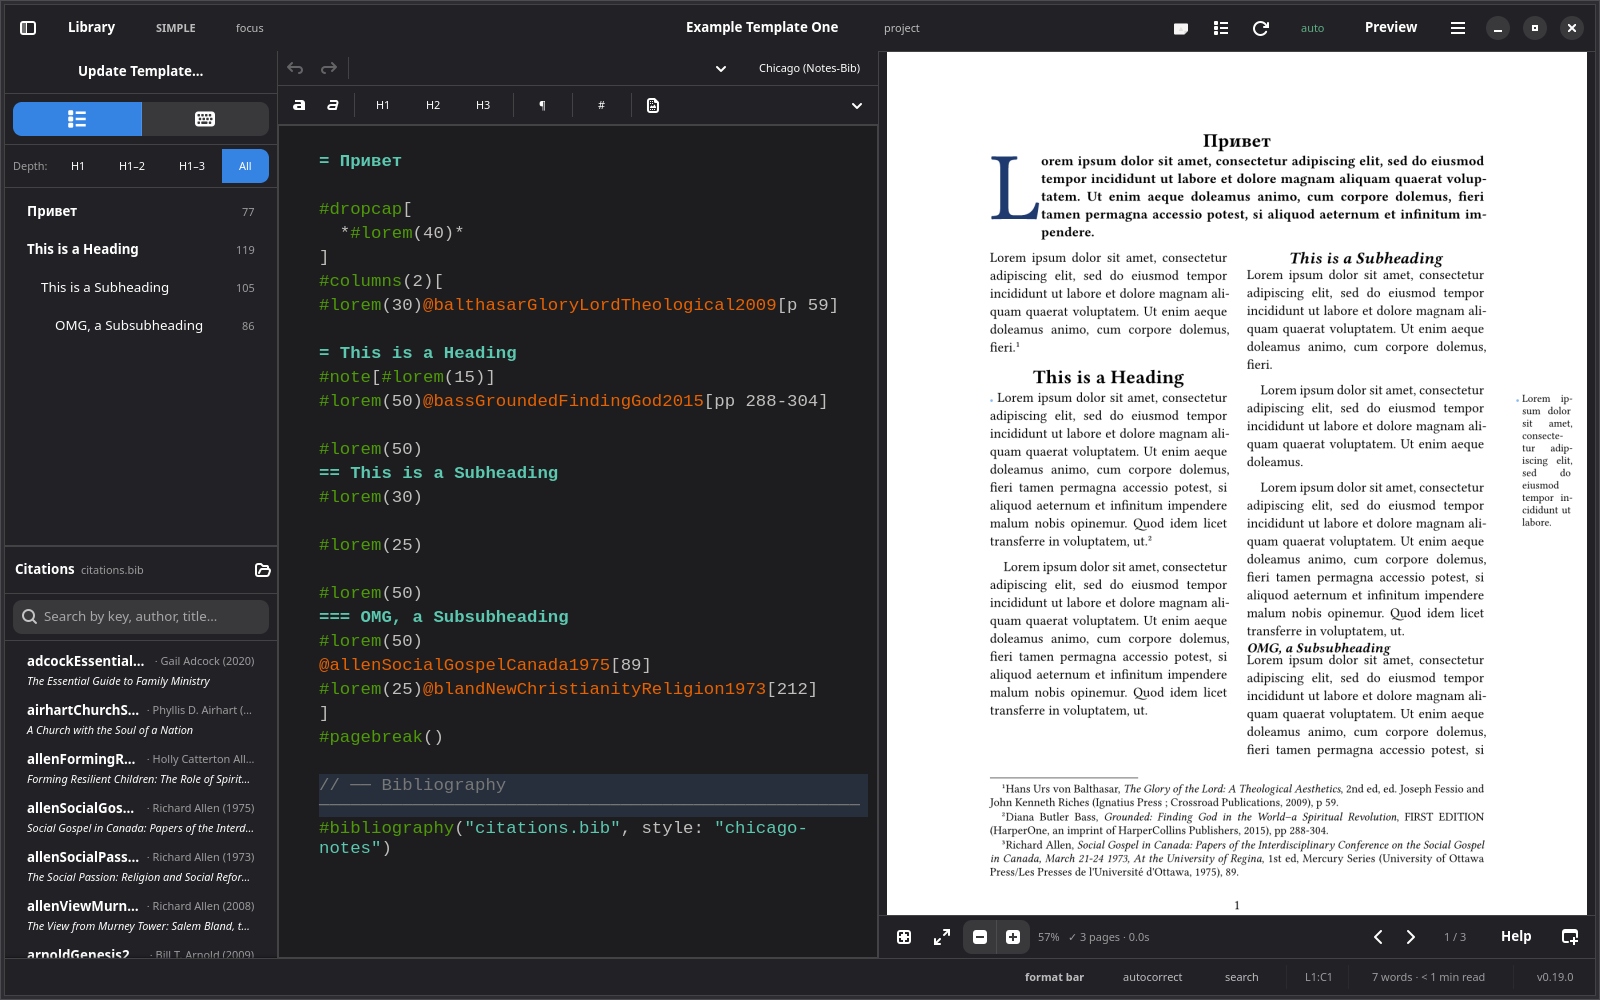
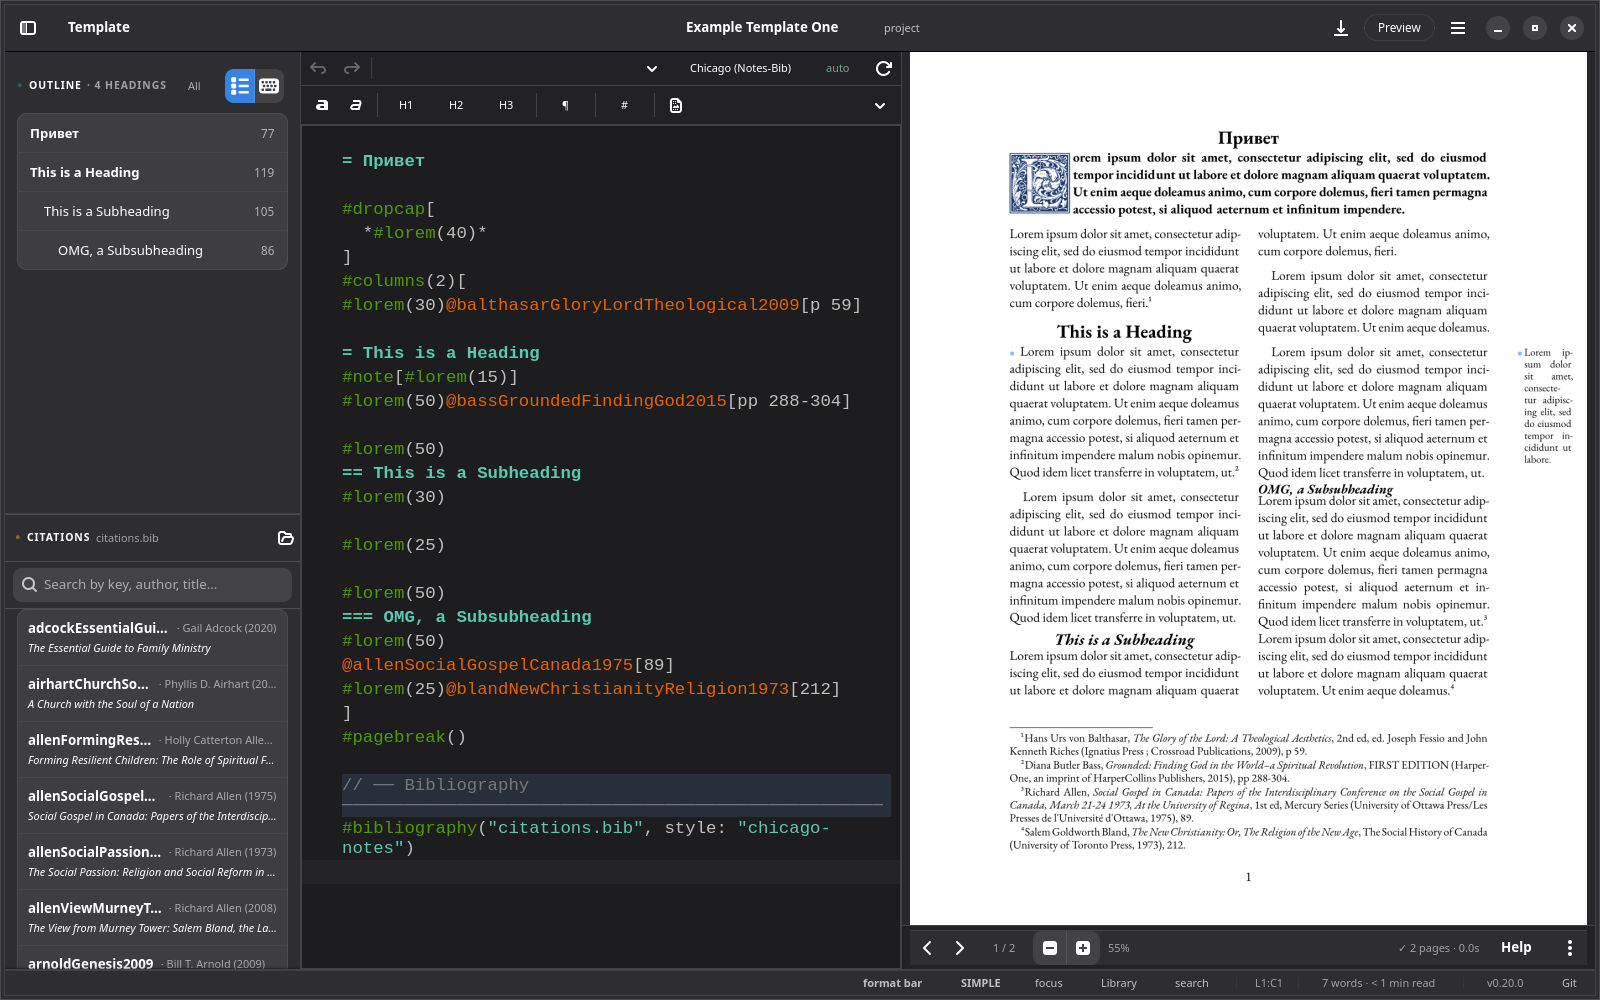
v0.20.0 "Plain Sight" — a printer that prints, a window that reads as one thing, and errors that say what and where
Closes the 0.20.0 cycle (dev3–dev13).

Headline work: a real print system (print sheet, document-numbering page
ranges, n-up and booklet imposition done on the PDF, remembered settings);
a suite-wide visual pass that takes the header from twelve controls to
four and puts every window on the same surface; and an error system that
finally reports where a problem is and says so in plain language.

Also in this release: package downloading on first use, warnings reaching
the error panel, a fixed memory leak, crash-safe saving, the removal of
the 30-second forced autosave, and the menu/settings audit.

Screenshots refreshed. capture-screenshots.sh now links the user's font
directory into the isolated home — XDG_DATA_HOME is both the isolation
boundary and where fontconfig finds user fonts, so the demo document was
being captured with substituted fonts, which became visible as three
spurious font warnings once warnings started reaching the panel.

Claude-Session: https://claude.ai/code/session_01XGN13ZpUAa4Cm7Sv9RrKCR

diff --git a/src/ui/welcome_window.rs b/src/ui/welcome_window.rs
@@ -7,7 +7,7 @@ use libadwaita as adw;
 use adw::prelude::*;
 
 const VERSION: &str = env!("CARGO_PKG_VERSION");
-pub const RELEASE_NAME: &str = "Quiet Silver";
+pub const RELEASE_NAME: &str = "Plain Sight";
 
 pub struct WelcomeWindow {
     window: adw::Window,

diff --git a/CHANGELOG.md b/CHANGELOG.md
@@ -5,6 +5,47 @@ Format follows [Keep a Changelog](https://keepachangelog.com/en/1.1.0/).
 
 ---
 
+## [0.20.0] "Plain Sight" — A printer that prints, a window that reads as one thing, and errors that say what and where
+
+### Added
+- **A print system worth the name.** Ctrl+P opens a sheet showing what will actually be printed — the document, its page count, its real paper size — then hands off to the system dialog with everything already set. Page ranges are in the document's *own* numbering, so typing `12` gets you the page with 12 printed on it however the document numbers itself. Two or four pages a sheet and fold-and-staple booklets are imposed on the PDF itself, so ordering works on every printer and the output stays vector. Copies, two-sided, colour and layout are remembered between runs, with a proof, a finished copy and a booklet offered as starting points. "Print PDF" used to compile a file into a cache folder and open it in another application; it now goes to the printer.
+- **Typst packages download on first use.** `#import "@preview/…"` previously only worked if the package happened to already be cached, and failed naming an internal path if not.
+- **Typst warnings reach the error panel.** The compiler had been returning them all along and Zerkalo discarded every one.
+- **A shared stylesheet across the whole suite**, so Zerkalo, Rubric and the rest describe a section, a row and a surface the same way from one file.
+- **A save button in the header**, and Print reachable from the header and the command palette.
+
+### Changed
+- **Error messages are written in plain language.** The compiler's wording used to come first, with an explanation bolted underneath, so you had to get past "unknown variable: my-helper" before reaching anything you could act on. Now the plain sentence *is* the message — *Zerkalo doesn't know what "my-helper" means* — followed by what to do about it, and Typst's own suggestion where it has one. The exact compiler text stays under "Technical detail", and is what the copy button puts on the clipboard.
+- **The window reads as one thing.** The header is down from twelve controls to four and the preview bar from ten to five; what reports a mode moved to the status bar, compile controls moved beside the editor they compile. Every window and dialog — Library, Settings, Help, Export, Font Management, the wizards — now sits on the same surface as the main window instead of taking whatever the toolkit gave it. Sidebar panels announce themselves with a dot and small capitals, their rows grouped into cards, and the header bar, status bar, sidebar and preview each sit on their own surface rather than one undifferentiated sheet.
+- **The Library joins that design**, with single-line document cards, per-category colour cues, and tags set quietly after the title.
+- **Icons are drawn from Adwaita whatever the desktop uses.** Under KDE they had been coming from Breeze — the right names, a different family from the interface around them. Colour scheme, accent and font still follow the system.
+- **The menu is regrouped and says what it means.** Import sits with New and Open; Writing Stats leaves the settings block; menu shortcut labels come from your keybindings rather than being hardcoded; Keyboard Shortcuts and What's New are reachable from it at all; About is a proper about window; Ctrl+, opens Settings.
+- **The preview canvas follows the colour scheme** instead of being a fixed light grey slab under a dark window.
+
+### Removed
+- **The notes panel and the Plan panel**, and the right-hand sidebar they were the last occupants of.
+
+### Fixed
+- **Compile errors point at the line they're actually on.** Every error and warning reported line 1, whatever had gone wrong and wherever it was — so the source line quoted beside each one was always the first line of the document. Typst attaches two kinds of source position to a diagnostic and Zerkalo decoded only the kind that almost never occurs, so no error ever carried a location at all. Errors inside an included file now name that file, clicking one jumps to the right place when the root file lives in a subfolder, and the line quoted is the one that was compiled rather than the one last saved to disk.
+- **Memory grew for the whole time Zerkalo was open** — roughly 24 MB per thousand compiles of a three-line document, and far more for a real one.
+- **Zerkalo wrote your document to disk every 30 seconds whether you asked or not**, which also meant crash recovery could never trigger. Saving is now crash-safe, going through the same write-then-rename path settings always used.
+- **Settings changed in one dialog were silently reverted by another**, and a single bad line in `config.toml` discarded every setting and then overwrote the original.
+- **Typing stalled on every word boundary with autocorrect on**, and lagged badly on long documents — four separate pieces of work were running far more often than they needed to.
+- **Settings that did nothing now do something:** the Output folder was never read, and the Word count goal was saved and never applied.
+- **Nine of the seventeen command-palette entries had no handler at all** and silently did nothing.
+- **Update Template Settings behaved differently from the menu and the header**, the header route losing your locked author, affiliation and bibliography.
+- **Closing Settings with Escape or the close button** left a previewed theme and font applied over settings that were never saved, and mistyped paths were accepted without a word.
+- **Printing a CV produced nothing at all**, printing used the last saved version rather than what was on screen, failures were discarded silently, and the dialog opened on the desktop's default paper whatever size the document was.
+- **The preview redrew every page on every frame**, and every compile PNG-encoded each page only to decode it straight back.
+- **Every category in the library sidebar was the same blue.**
+- **Choosing a spelling suggestion threw the editor to the top of the document.**
+
+### Internal
+- **The screenshot script can see your installed fonts.** It redirects `XDG_DATA_HOME` for isolation, which is also where fontconfig looks for user fonts — so the demo document was captured with substitutes for EB Garamond and Goudy Initialen. Harmless while warnings were being discarded; the moment they reached the panel it put three spurious font warnings across the release screenshot.
+- **The suite goes from 269 tests to 385**, and the two largest files were broken up: the main window's constructor from 4,299 lines to roughly 2,000 across twelve files, and the template dialog's from 1,247 to 229.
+
+---
+
 ## [0.20.0-dev13] — Errors that tell you where, and what to do
 
 ### Fixed
